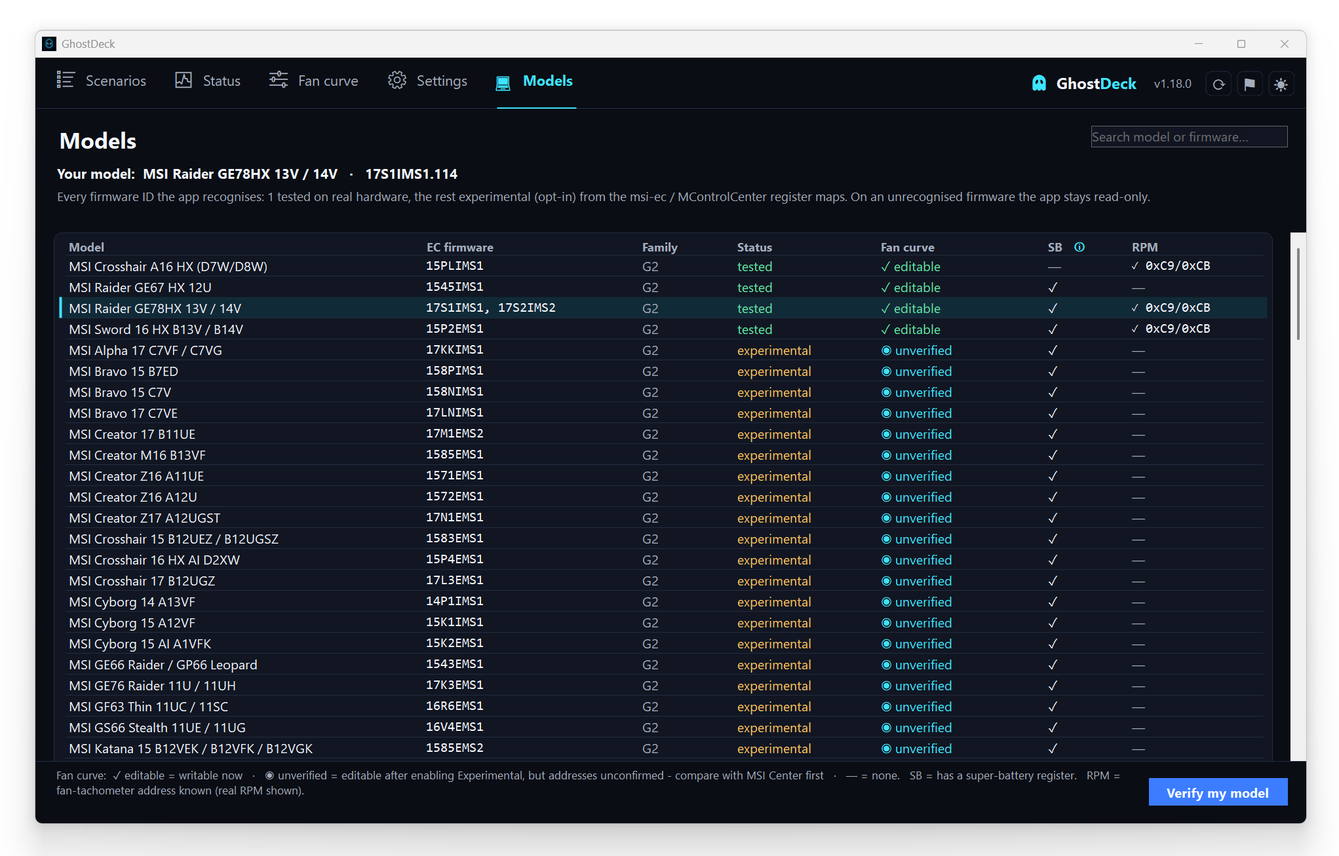
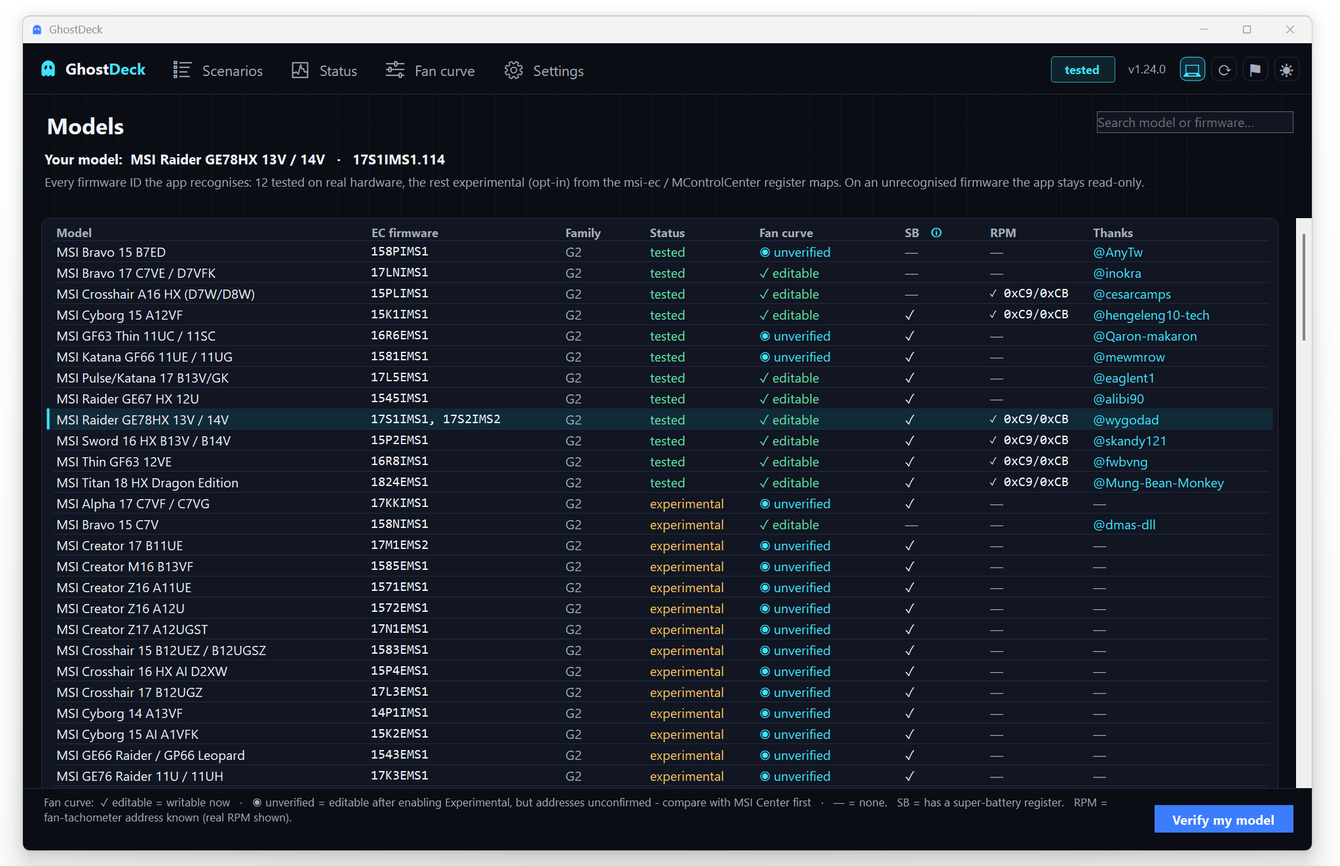
Release prep for v1.24.0: changelog, docs, screenshots, announcement
CHANGELOG 1.24.0 dated; TECHNICAL sections 32-35 (WMI resilience,
Settings live state, sub-tabs + Start dashboard, code signing);
BUILD/FAQ/README signing docs from the signing session; fresh
screenshots (Settings Start dashboard, Updates with inline notes,
Models); v1.24 announcement entry with the signing note.

Changed region(s): [[0.0, 0.0306, 0.9868, 1.0], [0.4009, 0.7345, 0.4317, 0.7651]]

diff --git a/docs/TECHNICAL.md b/docs/TECHNICAL.md
@@ -711,6 +711,25 @@ process (named mutex `GhostDeck_SingleInstance`); the second launch instead `Set
 `GhostDeck_ShowMainWindow`, and a background thread in `TrayContext` brings up the main window — so
 double-clicking the exe (or the freshly-swapped one) always shows something.
 
+**Release history (v1.24).** `Updater.RecentAsync(20)` lists the last 20 published releases;
+`ReleaseInfo.Downloads` = the sum of the release assets' `download_count` (in practice the one
+`GhostDeck.exe` asset). Each `ReleaseRow` shows tag + date + download count + a real ghost-styled
+"Details ↗" button (opens the release on GitHub); clicking anywhere else on the row toggles the
+FULL release notes inline. The notes are rendered by a markdown-lite pass (`ParseNotes`):
+`#`-headers and bare `Added`/`Fixed`/`Changed`… section words become accent-colored headers,
+`-`/`*` lines become bullets, `**bold**` runs switch font, `[text](url)` collapses to its text,
+"Full Changelog" lines are dropped. The expanded height is measured with the same word-wrap
+routine that draws (`DrawWrapped` with `draw:false`), so it is DPI-exact; collapsing restores the
+fixed two-line preview height. Rows re-read their button label in `Restyle()` so a language
+switch reaches them without a rebuild.
+
+**Fetch failure is not terminal (v1.24).** A failed `RecentAsync` used to latch: `_loaded` was
+set before the fetch, so the empty "couldn't reach GitHub" state survived until app restart.
+Now `_loaded` is only set on success; on failure the tab shows the error + a "Try again" button
+(`upd_retry`), retries automatically every 30 s while the tab is visible (WinForms timer), and
+retries on every tab entry. A `_loading` flag keeps the manual button, the timer and OnEnter
+from overlapping.
+
 ## 24. Settings backup, thermal alert, panic reset (v1.20)
 
 **Settings export / import (Settings → Backup).** Export serialises the live `AppSettings` to a
@@ -941,3 +960,153 @@ Implementation:
   so single-fan boards verify cleanly instead of producing a misleading "not located". The
   generated text report and the prefilled issue URL carry the per-fan detail
   ("GPU test curve not found (single-fan model or Fan 2 not set)").
+
+## 32. Surviving WMI read failures (`AppLifecycle.cs`, v1.23.2)
+
+Every EC read is a WMI `Get_Data` call, and such a call can fail for reasons that have nothing
+to do with the EC: the MSI ACPI provider host is being recycled, `Winmgmt` restarts, the machine
+goes to sleep or resumes, the app itself is being torn down, or Windows is shutting down (WMI
+stops serving before our process is killed). Typical results are `ManagementException`
+(`ShuttingDown`, `CallCanceled`, `ServerTooBusy`, `Timedout`) and the RPC-unavailable
+`COMException` HRESULTs.
+
+**A transient WMI failure is a missing sample, not an error to report.** It must never reach the
+message loop, and it must never be retried in a tight loop against a provider that is already
+struggling: drop that reading, keep the last good one, try again on the next normal tick.
+
+Reported on v1.23.1: the gaming overlay refreshed once a second straight on the UI thread with
+no guard (`OverlayForm` tick -> `TrayContext.BuildOverlaySample` -> `Ec.ReadHw`), so the first
+refused read escaped into the message loop and WinForms put up its `ThreadExceptionDialog`
+("unhandled exception ... Continue / Quit") mid-session. Every other periodic reader (Status
+`RefreshAsync`, `TrayContext.Poll`, `SampleHw`, Fan curve `RefreshMode`) already had a
+`try/catch`, which is why only the overlay ever showed it.
+
+The overlay did not even have to be switched on: `SetOverlay(false)` only calls `Hide()` (the
+form is kept so position and layout survive a toggle), but the 1 s timer was tied to the form's
+lifetime (`OnLoad` / `OnFormClosed`) instead of its visibility, so a hidden overlay went on
+reading the EC every second until exit. `OnVisibleChanged` now starts and stops the timer.
+
+Rules in force:
+
+1. **The guard lives in the EC layer, not in the callers.** `Ec.TryReadHw(dev, out hw)` is the
+   only public entry point for hardware sampling (`ReadHw` is private behind it); it absorbs
+   `ManagementException` / `COMException` / `ObjectDisposedException` / `InvalidOperationException`
+   and returns false. Callers keep their last good data and try again on their own next tick -
+   the next call reconnects on its own, since every EC call opens its own WMI connection
+   (`Ec.GetInstance`). The overlay sampler (`BuildOverlaySample`) returns null on a refused read
+   and `OverlayForm.Sample` keeps the previous `OverlaySample`. New code cannot reintroduce the
+   crash, because the throwing variant is not reachable from outside `Ec`.
+2. **Last line of defense, not a substitute for local handling.**
+   `Application.SetUnhandledExceptionMode(CatchException)` plus handlers on
+   `Application.ThreadException` and `AppDomain.UnhandledException`. `AppLifecycle.IsTransient`
+   drops the WMI noise listed above; anything else is appended to
+   `%AppData%\GhostDeck\errors.log` (capped at 128 KB) and the app keeps running. A release build
+   must never show the stock .NET exception dialog.
+3. **Stop polling when the session really ends.** `AppLifecycle.ShuttingDown` is set by
+   `SystemEvents.SessionEnding` / `SessionEnded` only, never by an exception (a WMI error code is
+   not evidence about the machine's state, and latching on one would freeze every EC read for the
+   rest of the session). `TrayContext.Poll` and the overlay timer stop on that flag.
+
+`errors.log` is the file to ask for in a bug report; it is written only for real, unexpected
+failures, so an empty or missing file is the normal state.
+
+## 33. Settings shows live state (v1.24)
+
+Settings controls are built once with build-time values, but two of those values can change
+elsewhere while the page exists: the language (tray menu -> `TrayContext.ChangeLanguage`) and
+the theme (header moon button -> `Theme.Toggle`). The page used to keep showing the stale
+selection in both cases.
+
+`SettingsPage.SyncExternal()` runs from `OnEnter` and `LiveRefresh` (the tray path calls
+`UpdateUi` -> `MainForm.RefreshActive` -> `LiveRefresh` of the visible page, so a change made
+while Settings is on screen lands immediately):
+
+- **language drift** (`_uiLang != Lang.CurrentCode`): full `BuildForm()+Layout2()` inside
+  `Ui.BatchRedraw` - every label changes anyway, and the rebuild re-reads all current values;
+  `BuildForm` records the language it was built with.
+- **theme drift**: `_themeSeg.Selected = Theme.Dark ? 1 : 0` - `SegControl.Selected` does NOT
+  raise `SelectedChanged`, so re-pointing it cannot loop back into `Theme.Set`. Also done in
+  `ApplyTheme`, which the header button triggers on every page via `Theme.Changed`.
+
+`UpdatesPage` gets the same treatment for its build-time texts: `ApplyThemeText()` (re)sets the
+button labels and per-row "Details" captions and is called from `OnEnter`, `ApplyTheme` and a
+new `LiveRefresh` override.
+
+## 34. Settings sub-tabs (v1.24)
+
+Settings outgrew its two-column card dump (raised in discussion #9; layout chosen by the owner
+from ten mockups - sub-tabs like the Status page, with icons and a tile start page).
+
+- `SettingsPage` keeps per-group card lists (`_gLeft[]` / `_gRight[]`); groups: 0 = Start,
+  then General, Power, Notifications, Gaming, Hotkeys, System. Only the active group's cards
+  are visible and laid out; hidden groups' controls stay built, so the language-change rebuild
+  path and all handlers are unchanged.
+- `SubTabs` (same control the Status/Report pages use) gained optional per-segment glyphs
+  drawn with Segoe MDL2 Assets, matching the main tab strip's icon language. Glyphs: Start
+  E80F (Home), General E790 (Color), Power E945 (LightningBolt), Notifications E7BA (Warning),
+  Gaming E7FC (Game), Hotkeys E765 (KeyboardClassic), System E90F (Repair).
+- The Start page is a grid of `GroupTile`s (glyph + group name + one-line description; 3 per
+  row, 2 on narrow windows). Clicking a tile equals clicking its strip segment.
+- The active sub-tab persists in `AppSettings.SettingsSubTab` (0 = Start, the first-run
+  default). `SelectSub` saves it, resets the scroll position and relayouts. So Settings
+  reopens exactly where the user left off, across app restarts too.
+- The full-width overlay panel IS the Gaming sub-page. The old Power card was split: battery
+  side (charge limit, AC/battery profiles, restore-on-resume) stays `set_grp_power`; the
+  refresh-rate rows moved to a new Display card (`set_grp_display`).
+- Group assignment: General = Appearance, Interface, Application icon; Power = Power + Display;
+  Notifications = alerts/OSD; Hotkeys = shortcuts; System = Startup & tray, Updates, Tray
+  menu, Backup.
+
+### 34.1 Start page dashboard + strip active state (v1.24)
+
+The Start page is a dashboard, not just navigation:
+
+- **Live tile state.** `SettingsPage.RefreshTiles()` (called from `OnEnter`, `LiveRefresh`,
+  after builds and after tile toggles) writes each tile's third line from the CURRENT
+  settings: General = theme + language; Power = charge limit (+ "AC x Hz / bat. y Hz" when the
+  refresh switch is fully configured); Notifications = threshold/time or Off; Gaming =
+  overlay on/off + enabled-metric count; Hotkeys = enabled count or Off; System = autostart +
+  update-check state. A small dot (Theme.Green / Theme.Faint) encodes the group's main on/off;
+  General has none.
+- **Quick switches.** `GroupTile.AttachToggle(get, set)` embeds a ToggleSwitch top-right;
+  used on Notifications (temp alert) and Gaming (overlay via `D.SetOverlay`). The toggle is a
+  child control, so clicking it never triggers the tile's navigate click; `SyncToggle` uses
+  the silent `Checked` setter, so re-syncing cannot loop into the action.
+- **Status header.** `HomeHeader` draws model + tier pill (`Ui.Pill`) + firmware + version
+  from `D.Status()` / `D.Firmware` / `D.AppVersion`. When `D.UpdateAvail()` (new MainDeps
+  member; `TrayContext._updateAvail` is set by the daily check) returns a release, a filled
+  accent chip appears; clicking it calls `D.OpenUpdates(tag)`.
+- **What's new.** A link under the tiles calls `D.OpenUpdates("v" + AppVersion)`;
+  `MainForm.ShowUpdates(tag)` -> `UpdatesPage.FocusRelease(tag)` expands (and scrolls to) the
+  matching `ReleaseRow` once the release list is loaded - the deep link survives the list
+  loading later (`_focusTag` is consumed in `TryFocusRelease` after a successful fetch).
+- **Strip active state (user report).** Opening a page from an icon-only button (Report,
+  Updates, or a tab collapsed to an icon) left NOTHING highlighted in the strip - TabButtons
+  had an Active state but GlyphButtons did not. `GlyphButton.Active` now paints an AccentSoft
+  fill + accent border + accent glyph, and `MainForm.ShowTab` updates `_tabIcons`,
+  `_reportBtn` and `_updatesBtn` alongside the tab row.
+
+## 35. Release code signing (v1.24)
+
+Release binaries are Authenticode-signed in CI with **Azure Artifact Signing** (managed
+short-lived certificates in a Microsoft HSM; publisher subject
+`CN=WYGODA DAWID FENIX INSPIRE`). Nothing is signed locally - only the release workflow.
+
+- `release.yml` runs in the GitHub environment `release` with `id-token: write`.
+  `azure/login@v3` authenticates via an **OIDC federated credential** on the Entra app
+  `ghostdeck-ci`, so the repo stores no passwords or secrets - only three non-secret Actions
+  variables (`AZURE_TENANT_ID`, `AZURE_CLIENT_ID`, `AZURE_SUBSCRIPTION_ID`).
+- The repo is opted in to GitHub's **immutable OIDC subject** format
+  (`use_immutable_subject=true` via the REST API), so the credential matches on stable
+  numeric IDs (`repo:wygodad@697658/ghostdeck@1281617924:environment:release`) instead of
+  renameable account/repo names.
+- `azure/artifact-signing-action@v2` signs `publish/GhostDeck.exe`: endpoint
+  `https://eus.codesigning.azure.net/` (must match the signing account's region), account
+  `ghostdeck-signing`, certificate profile `ghostdeck-public`, SHA-256 digest, RFC 3161
+  timestamp from `timestamp.acs.microsoft.com`. The certificates are short-lived by design;
+  the timestamp is what keeps signatures on old releases valid after the cert expires.
+- A **hard gate** follows the signing step: `Get-AuthenticodeSignature` must report `Valid`
+  and the signer subject must contain `FENIX INSPIRE`, otherwise the job fails before the
+  release step - an unsigned or wrongly-signed exe can never be published.
+- `workflow_dispatch` has a **dry-run** input: build + sign + upload the exe as a workflow
+  artifact, with no release created. Used to validate the pipeline end to end.

diff --git a/README.md b/README.md
@@ -8,11 +8,11 @@ Built because **MSI Center 2.0 removed the _Silent_ profile**. This app talks to
 
 > ⚠ **Hardware-specific.** Developed and tested on **MSI Raider GE78HX 13V** (board MS-17S1, i9-13950HX, EC firmware `17S1IMS1.114`), and confirmed by an owner on the **GE78 HX 14V** (`17S2IMS2`, same board). EC registers are model/firmware-specific - read [docs/TECHNICAL.md](docs/TECHNICAL.md) before trying it on another model. **Use at your own risk.**
 
-📋 **~135 MSI models recognised** - **12 models confirmed on real hardware** by their owners (GE78HX/Vector boards, Crosshair A16 HX, Sword 16 HX, GE67 HX, Cyborg 15, both GF63 Thins, Titan 18 HX Dragon, Bravo 15 B7ED, Bravo 17, Katana GF66 11U, Pulse/Katana 17 B13V), the rest are experimental (opt-in). See the **[full supported-models list](docs/SUPPORTED_MODELS.md)**, or browse it live in the app's **Models** tab.
+📋 **~135 MSI models recognised** - **13 models confirmed on real hardware** by their owners (GE78HX/Vector boards, Crosshair A16 HX, Crosshair 16 HX AI, Sword 16 HX, GE67 HX, Cyborg 15, both GF63 Thins, Titan 18 HX Dragon, Bravo 15 B7ED, Bravo 17, Katana GF66 11U, Pulse/Katana 17 B13V), the rest are experimental (opt-in). See the **[full supported-models list](docs/SUPPORTED_MODELS.md)**, or browse it live in the app's **Models** tab.
 
 ## Features
 
-- 🖥 Tray icon (color = active profile) with a profile menu, plus a **tabbed main window** (Scenarios / Status / Fan curve / Models / Report / Updates) with a **light / dark theme**
+- 🖥 Tray icon (color = active profile) with a profile menu, plus a **tabbed main window** (Scenarios / Status / Fan curve / Models / Report / Updates) with a **light / dark theme**; Settings is organized into **icon sub-tabs** (a Start page with tiles + General / Power / Notifications / Gaming / Hotkeys / System) and reopens on the sub-tab you used last
 - ⌨ Global, **rebindable** hotkeys (default `Ctrl+Alt+F1–F4`, `Ctrl+Alt+P` = cycle)
 - 🔔 On-screen overlay (OSD) on every profile change
 - 🎮 **Detachable gaming overlay (HUD)** - a small always-on-top panel with **FPS / frametime**, temps / fan RPM / profile / load / GPU% / VRAM / clocks / RAM / battery, in a **card or bar** layout. Pick which metrics to show, drag it anywhere (position remembered) or snap to a corner, toggle with a hotkey (default `Ctrl+Shift+O`). Rendered per-pixel with **independent background & content opacity**, smooth anti-aliased text, a readability shadow, optional click-through lock (`Ctrl+Shift+L`)
@@ -36,7 +36,8 @@ Built because **MSI Center 2.0 removed the _Silent_ profile**. This app talks to
 - 🔋 **Battery charge limit** (60 / 80 / 100 %)
 - 🚀 **Start with Windows** (elevated scheduled task - no UAC nag at logon)
 - 🔄 Syncs the UI if the profile is changed externally (e.g. by MSI Center)
-- ⬇ **In-app updates** - a daily update check (can be disabled) with a tray notification, plus **one-click install from the Updates tab**: it downloads the new release, shows a progress bar and restarts itself on the new version (the previous `.exe` is kept as a `.bak` and cleaned up on next start); falls back to the download page if the download fails
+- ⬇ **In-app updates** - a daily update check (can be disabled) with a tray notification, plus **one-click install from the Updates tab**: it downloads the new release, shows a progress bar and restarts itself on the new version (the previous `.exe` is kept as a `.bak` and cleaned up on next start); falls back to the download page if the download fails. The tab also lists the **last 20 releases with download counts and full release notes readable inline** (click an entry to expand), and recovers from a lost connection on its own (retry button + automatic re-check)
+- 🔏 **Digitally signed releases** - every `GhostDeck.exe` published since v1.24.0 carries a verified publisher signature ("WYGODA DAWID FENIX INSPIRE"), so Windows can confirm who built it and that nobody tampered with it - see [Download](#download) for what that means in practice
 - 📣 **Announcements & feedback** - occasional in-app notices (tray balloon + a dismissible banner) fetched read-only from the repo on the same daily check; a **Send feedback…** tray entry opens GitHub Discussions. No data is collected by the app (a plain download, same privacy footprint as the update check); both can be turned off with the update-check toggle
 
 ## Comparison with MSI software
@@ -88,9 +89,9 @@ GhostDeck is a small, focused tool - it deliberately does one thing (power/fan p
 | ![Tray menu](docs/images/tray-menu.png) | ![Scenarios](docs/images/scenarios.png) |
 | **Tray menu** - switch profile, Status, Language, Settings | **Scenarios** - large profile tiles + charge limit and AC/battery auto-switch |
 | ![Status](docs/images/status.png) | ![Settings](docs/images/settings.png) |
-| **Status** - temperature/fan rings, fan RPM, CPU usage and RAM, tier badge | **Settings** - grouped cards: theme, language, power, startup, rebindable hotkeys |
+| **Status** - temperature/fan rings, fan RPM, CPU usage and RAM, tier badge | **Settings** - Start dashboard: icon sub-tabs, live state on every group tile, quick switches |
 | ![Report my model](docs/images/report_my_model.png) | ![Updates](docs/images/updates.png) |
-| **Report my model** - guided in-app EC capture → pre-filled GitHub issue | **Updates** - installed version, check now, release history |
+| **Report my model** - guided in-app EC capture → pre-filled GitHub issue | **Updates** - one-click install, 20 releases with download counts and inline notes |
 | ![Fan curve](docs/images/fan_curve.png) | ![Status EC bytes](docs/images/status_ec.png) |
 | **Fan curve** - drag a custom CPU/GPU fan curve (manual fan control) | **Status (EC bytes)** - live profile-byte matrix, legend and fan-curve tables |
 | ![Models](docs/images/models.png) | ![Change log](docs/images/change_log.png) |
@@ -100,6 +101,14 @@ GhostDeck is a small, focused tool - it deliberately does one thing (power/fan p
 
 Grab the latest **`GhostDeck.exe`** from the [**Releases**](../../releases) page.
 It's a single, self-contained file - no install, no .NET runtime needed. Run it and approve the UAC prompt (EC access requires administrator).
+
+**Every release since v1.24.0 is digitally signed.** In plain terms: before publishing, the exe gets a cryptographic seal tied to the developer's registered business, verified by Microsoft (Azure Artifact Signing). That gives you three guarantees:
+
+- **You know who made it** - right-click the exe → Properties → **Digital Signatures** shows **"WYGODA DAWID FENIX INSPIRE"** (the developer's registered company). Windows shows the same name in the UAC prompt instead of "Unknown publisher".
+- **Nobody tampered with it** - if even one byte of the file were modified after signing (by malware, a broken download, or a fake mirror), the signature check fails visibly.
+- **Fewer scary warnings over time** - SmartScreen and antivirus tools treat consistently-signed software as increasingly trustworthy, so "Windows protected your PC" prompts fade away as the signature builds reputation.
+
+**A `GhostDeck.exe` v1.24.0+ without this signature is not an official build - don't run it.**
 
 ## Supported models
 
@@ -111,8 +120,8 @@ Experimental models are **opt-in**: enable them in *Settings → Power → "Enab
 
 | Tier | Models | EC firmware / registers | Fan curve |
 |---|---|---|---|
-| ✅ **Tested** | **MSI Raider GE78HX / Vector GP78HX 13V**, **GE78 HX 14V / Vector 17 HX A14V**, **Crosshair A16 HX**, **Sword 16 HX B13V/B14V**, **Raider GE67 HX 12U**, **Cyborg 15 A12VF**, **Thin GF63 12VE**, **Titan 18 HX Dragon Edition**, **Bravo 15 B7ED**, **Bravo 17 C7VE/D7VFK**, **GF63 Thin 11UC/11SC**, **Katana GF66 11UE/11UG**, **Pulse/Katana 17 B13V/GK** | `17S1IMS1.*`, `17S2IMS2.*`, `15PLIMS1.*`, `15P2EMS1.*`, `1545IMS1.*`, `15K1IMS1.*`, `16R8IMS1.*`, `1824EMS1.*`, `158PIMS1.*`, `17LNIMS1.*`, `16R6EMS1.*`, `1581EMS1.*`, `17L5EMS1.*` - shift `0xD2` / fan `0xD4` | ✅ editable |
-| ⚗ **G2 family** (~94) | Raider / Vector / Titan HX (13V–14V), Stealth 16-18, Sword / Pulse / Crosshair 16, Katana, Cyborg, Bravo, Modern / Prestige / Summit | shift `0xD2` / fan `0xD4` / super-batt `0xEB` | ◉ editable after opt-in (unverified) |
+| ✅ **Tested** | **MSI Raider GE78HX / Vector GP78HX 13V**, **GE78 HX 14V / Vector 17 HX A14V**, **Crosshair A16 HX**, **Sword 16 HX B13V/B14V**, **Raider GE67 HX 12U**, **Cyborg 15 A12VF**, **Thin GF63 12VE**, **Titan 18 HX Dragon Edition**, **Bravo 15 B7ED**, **Bravo 17 C7VE/D7VFK**, **GF63 Thin 11UC/11SC**, **Katana GF66 11UE/11UG**, **Pulse/Katana 17 B13V/GK**, **Crosshair 16 HX AI D2XW** | `17S1IMS1.*`, `17S2IMS2.*`, `15PLIMS1.*`, `15P2EMS1.*`, `1545IMS1.*`, `15K1IMS1.*`, `16R8IMS1.*`, `1824EMS1.*`, `158PIMS1.*`, `17LNIMS1.*`, `16R6EMS1.*`, `1581EMS1.*`, `17L5EMS1.*`, `15P4EMS1.*` - shift `0xD2` / fan `0xD4` | ✅ editable |
+| ⚗ **G2 family** (~93) | Raider / Vector / Titan HX (13V–14V), Stealth 16-18, Sword / Pulse / Crosshair 16, Katana, Cyborg, Bravo, Modern / Prestige / Summit | shift `0xD2` / fan `0xD4` / super-batt `0xEB` | ◉ editable after opt-in (unverified) |
 | ⚗ **G1 family** (~33) | older GS / GF / GE / GP, Modern, Alpha, Bravo, Delta, Creator | shift `0xF2` / fan `0xF4` / charge `0xEF` | - profiles only |
 
 The G2 fan-curve tables use the fixed addresses (CPU `0x6A`/`0x72`, GPU `0x82`/`0x8A`) that MControlCenter writes across the whole family, so they are practice-confirmed; on experimental models the curve is editable once you opt in, but stays flagged **unverified** until you compare it with MSI Center on your own model. See the **[full per-firmware list of all ~135 models](docs/SUPPORTED_MODELS.md)** (source of truth: [`Devices.cs`](Core/Devices.cs)). A handful of models whose msi-ec config documents no "Silent" fan value are deliberately left out (Silent is this app's core function - guessing it would be unsafe).

diff --git a/CHANGELOG.md b/CHANGELOG.md
@@ -3,6 +3,57 @@
 All notable changes to this project are documented here.
 Format loosely based on [Keep a Changelog](https://keepachangelog.com/).
 
+## [1.24.0] - 2026-07-28
+### Added
+- **Crosshair 16 HX AI D2XW (`15P4EMS1`) promoted to Tested, fan curve verified**
+  ([#43](../../issues/43), [#44](../../issues/44), thanks @Harsh3456D) - a clean per-scenario
+  EC capture confirmed the shipped register map (shift `0xD2` C2/C1/C4, super-battery `0xEB`),
+  the wizard located the owner's test curve at exactly `0x72`/`0x8A`, and all three hardware
+  checks passed.
+- **Releases are digitally signed** - starting with this version, the `GhostDeck.exe`
+  published on GitHub carries an Authenticode signature ("WYGODA DAWID FENIX INSPIRE", Azure
+  Artifact Signing, RFC 3161 timestamp). Check it under file Properties → Digital Signatures;
+  the release pipeline refuses to publish an unsigned or wrongly-signed file. This also means
+  SmartScreen "unknown publisher" warnings will gradually disappear as reputation builds.
+- **Settings reorganized into sub-tabs** - the one long two-column page is now split into six
+  groups (General / Power / Notifications / Gaming / Hotkeys / System) behind an icon strip
+  like the Status tab, plus a **Start page with a tile per group** for quick orientation.
+  GhostDeck **remembers which sub-tab you were on** and reopens Settings right there, even
+  after an app restart. Display settings (refresh-rate switching) got their own card next to
+  Power.
+- **The Settings Start page is a dashboard** - every tile carries a live third line with the
+  group's current values (charge limit and refresh rates, alert threshold, overlay state and
+  metric count, enabled hotkeys, autostart and update check) plus an on/off dot; the Gaming
+  and Notifications tiles get a **quick master switch** right on the tile; a **status header**
+  shows the laptop model, support tier, firmware and app version, and turns into a clickable
+  **"new version available" chip** when the daily check finds a release; a **"What's new in
+  vX"** link opens Updates with the current version's notes already expanded.
+- **Release notes readable inside the app** - clicking a release in Updates → Release history
+  expands its full formatted notes inline (section headers, bullets, bold; click again to
+  collapse), the old "Details" link is now a proper button that opens the release on GitHub,
+  each entry shows its **download count**, and the list covers the **last 20 releases**
+  (was 5 with two-line previews only).
+
+### Fixed
+- **The top bar always shows where you are** - pages opened from icon-only buttons (Report,
+  Updates, or any tab collapsed to an icon via Settings → Interface) left nothing highlighted
+  in the strip; the active icon now gets an accent frame and accent glyph.
+- **Updates tab recovers after connection loss** - a failed fetch used to show the error once
+  and never load again, even after the internet came back. The tab now retries when you open
+  it again, the error message has a "Try again" button, and a background re-check runs every
+  30 s while the tab stays open.
+- **Settings always show the current state** - switching the language from the tray menu or
+  the theme from the header button left the Settings page showing the old values; the page now
+  syncs itself whenever it is shown or the app state changes.
+- **A failed hardware read no longer crashes the app** - the gaming overlay refreshed the EC
+  every second with no error handling, so one refused WMI call (provider restart, sleep/resume,
+  shutdown) was enough to raise a .NET "unhandled exception" box. The overlay now keeps the last
+  reading and tries again on the next refresh, and a last-chance handler catches anything else
+  and writes it to `%AppData%\GhostDeck\errors.log` instead of showing a dialog.
+- **A switched-off overlay no longer reads the hardware** - turning the gaming overlay off only
+  hides its window, and the 1 s sampling timer kept running with it, so the EC was polled every
+  second for the rest of the session. The timer now follows the window's visibility.
+
 ## [1.23.1] - 2026-07-27
 ### Changed
 - **Thin GF63 12VE: fan-curve addresses verified** ([#22](../../issues/22)) - the owner confirmed

diff --git a/docs/FAQ.md b/docs/FAQ.md
@@ -25,7 +25,11 @@ No, and it's not planned. "Freeing" RAM (trimming working sets or the standby li
 Very low. The app uses MSI's **official WMI interface** (the same channel MSI Center uses), writes only the exact register values MSI's own profiles use, and EC writes are **volatile** - a reboot resets the EC to firmware defaults (nothing is flashed). On an **unrecognized firmware it stays read-only** and writes nothing. The CPU also keeps its own hardware thermal protection that no EC write can disable. Experimental models are opt-in and write only documented mode registers.
 
 **My antivirus / VirusTotal flags GhostDeck.exe - is it malware?**
-No - but the flag is understandable, and here is how to verify it yourself. GhostDeck ticks several boxes that antivirus heuristics dislike: it's an unsigned, self-contained single-file exe (it self-extracts the .NET runtime), asks for administrator rights, talks to the Embedded Controller, registers global hotkeys and can update itself. Occasionally a single engine (typically a small one, via a generic "W32.Malware.*" heuristic name) flags it on VirusTotal while all the major engines stay clean - a classic false positive pattern. To verify a download: compare its SHA-256 with the asset on the [Releases](../../../releases) page (`certutil -hashfile GhostDeck.exe SHA256` in a terminal) - every release is built from the public source by GitHub Actions, so the code that produced the exe is fully auditable, and you can always build it yourself (see the README). If a *majority* of engines ever flag a file claiming to be GhostDeck, don't run it and tell us - that would not be our build.
+No - but the flag is understandable, and here is how to verify it yourself. GhostDeck ticks several boxes that antivirus heuristics dislike: it's a self-contained single-file exe (it self-extracts the .NET runtime), asks for administrator rights, talks to the Embedded Controller, registers global hotkeys and can update itself. Occasionally a single engine (typically a small one, via a generic "W32.Malware.*" heuristic name) flags it on VirusTotal while all the major engines stay clean - a classic false positive pattern.
+
+Since **v1.24.0 every release is digitally signed**: right-click the exe → Properties → **Digital Signatures** should show **"WYGODA DAWID FENIX INSPIRE"** (the developer's registered business) with a valid timestamp. A correct signature proves the file is an untampered official build; signing also gradually builds SmartScreen reputation, so "unknown publisher" warnings fade over time. Releases before 1.24.0 were unsigned.
+
+Additional checks: compare the SHA-256 with the asset on the [Releases](../../../releases) page (`certutil -hashfile GhostDeck.exe SHA256` in a terminal) - every release is built from the public source by GitHub Actions, so the code that produced the exe is fully auditable, and you can always build it yourself (see the README). If a file claiming to be GhostDeck has no signature (v1.24.0+) or a *majority* of engines flag it, don't run it and tell us - that would not be our build.
 
 **Why does it ask for administrator (UAC)?**
 EC access via WMI requires elevation. Launching manually shows one UAC prompt; the *Start with Windows* option uses an elevated scheduled task so there's **no UAC nag at every logon**.

diff --git a/docs/BUILD.md b/docs/BUILD.md
@@ -20,7 +20,8 @@ dotnet publish -c Release -r win-x64 --self-contained true `
   -p:DebugType=none -p:Version=X.Y.Z -o release
 ```
 Output: `release/GhostDeck.exe` (~154 MB, self-contained, requires admin to *run*).
-A local re-publish to `release/` needs the running app closed first (file lock) — exit it from the tray.
+A local re-publish to `release/` needs the running app closed first (file lock) - exit it from the tray.
+Local builds are **unsigned**; only the release workflow signs (see below).
 
 ## Day-to-day
 ```powershell
@@ -36,8 +37,15 @@ git push origin main
    git tag vX.Y.Z
    git push origin vX.Y.Z
    ```
-GitHub Actions then builds the self-contained exe and publishes a **Release** with the
-exe attached and the notes taken from the matching CHANGELOG section.
+GitHub Actions then builds the self-contained exe, **signs it** (Azure Artifact Signing via
+OIDC; publisher "WYGODA DAWID FENIX INSPIRE") and publishes a **Release** with the exe
+attached and the notes taken from the matching CHANGELOG section. The workflow verifies the
+signature and **refuses to publish** when it is missing or has an unexpected subject, so a
+failed signing step can never ship an unsigned exe. Details: [TECHNICAL.md](TECHNICAL.md) §35.
+
+To test the signing pipeline without publishing anything: GitHub → Actions → **Release** →
+*Run workflow* with the **dry-run** box ticked. It builds and signs, then uploads the exe as
+a workflow artifact instead of creating a release.
 
 > Don't tag a release of an untested feature. Push to `main` first, test the local exe,
 > then tag.
